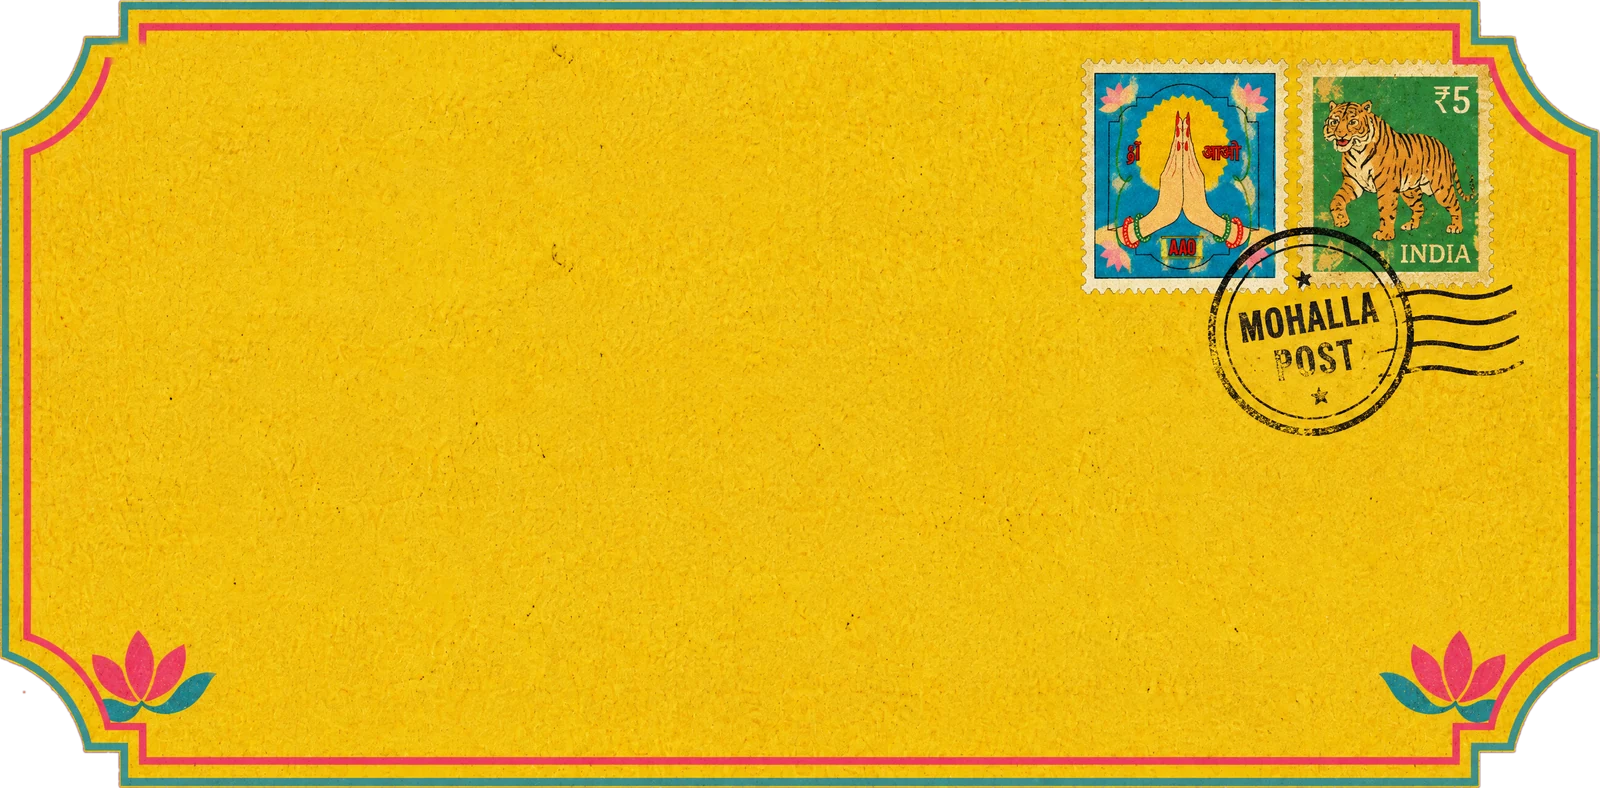
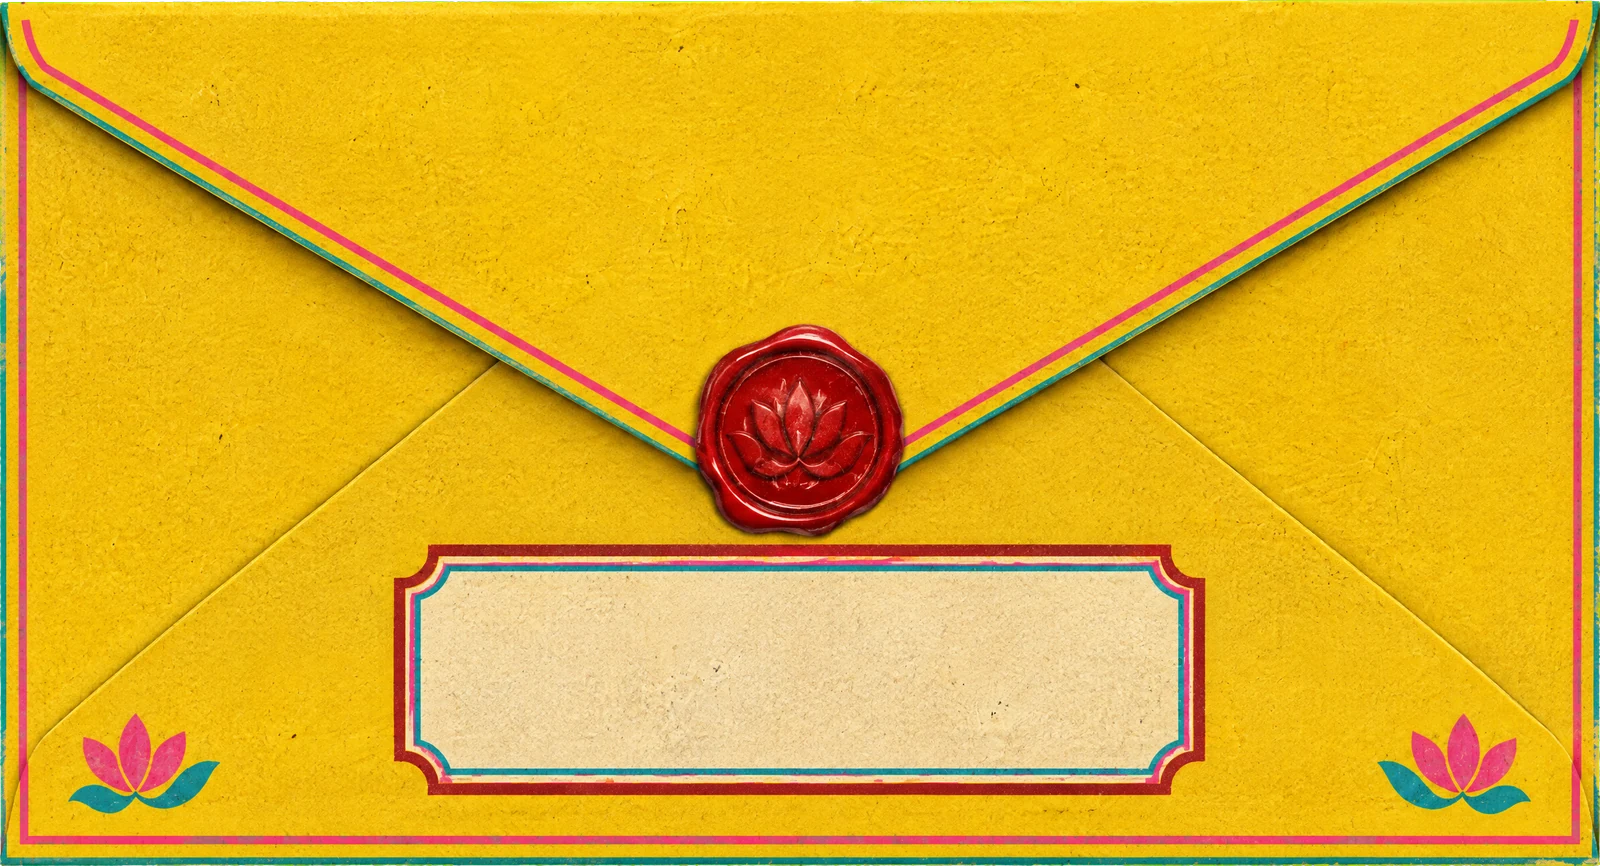
diwali: real envelope back (V flap, lotus wax seal, pasted name label) in the deck style

diff --git a/diwali/app.js b/diwali/app.js
@@ -73,7 +73,7 @@ let vw = 0, vh = 0, dpr = 1, lastEnvW = 0, wide = false;
 const E = {}, EB = {}, EZ = {}, B = {}, M = {}, C2 = {};
 let zoom = 0, RS = 2;                                         // envelope zoom (0 = resting, 1 = lit close-up)
 const tilt = { x: 0, y: 0, px: 0, py: 0 };
-const ENV_AR = 1600 / 788, POSTER_AR = 1000 / 1201, SLEEVE_AR = 1000 / 625, DRAWER = .253;
+const ENV_AR = 1600 / 866, POSTER_AR = 1000 / 1201, SLEEVE_AR = 1000 / 625, DRAWER = .253;
 const ORIGIN = [.05, .9];
 
 function setE() {
@@ -154,31 +154,26 @@ function drawEnvelope() {
   x.setTransform(RS, 0, 0, RS, 0, 0);
   x.clearRect(0, 0, W, H);
   if (IMG.env) x.drawImage(IMG.env, 0, 0, W, H);
-  // deck lockup: nailinit / DIWALI / P A R T Y
-  const lx = u * 8.5;
-  if (IMG.nl) { const h = u * 3.3; x.drawImage(IMG.nl, lx, u * 6.6, h * IMG.nl.width / IMG.nl.height, h); }
-  let dh = 0;
-  if (IMG.diwali) { const w = u * 25; dh = w * IMG.diwali.height / IMG.diwali.width; x.drawImage(IMG.diwali, lx - u * .3, u * 10.6, w, dh); }
-  x.fillStyle = '#1c1410'; x.font = `600 ${u * 2.3}px "Clash Display", "Barlow Condensed"`; x.textBaseline = 'alphabetic'; x.textAlign = 'left';
-  'PARTY'.split('').forEach((ch, i) => x.fillText(ch, lx + u * 4.4 + i * u * 3.4, u * 10.6 + dh + u * 2.9));
-  // address: Palanquin Dark + Bakbak One with the deck's red drop shadow
-  const ax = u * 8.5, ay = u * 27.5;
-  x.fillStyle = '#c4221a'; x.font = `700 ${u * 3.2}px "Palanquin Dark"`;
-  x.fillText('सेवा में,', ax, ay);
+  // deck lockup on the top flap: nailinit / DIWALI / P A R T Y
+  x.textBaseline = 'alphabetic';
+  let ly = H * .085;
+  if (IMG.nl) { const h = u * 3.2, w = h * IMG.nl.width / IMG.nl.height; x.drawImage(IMG.nl, W / 2 - w / 2, ly, w, h); ly += h + u * .9; }
+  if (IMG.diwali) { const w = u * 22, h = w * IMG.diwali.height / IMG.diwali.width; x.drawImage(IMG.diwali, W / 2 - w / 2, ly, w, h); ly += h; }
+  x.fillStyle = '#1c1410'; x.font = `600 ${u * 2.1}px "Clash Display", "Barlow Condensed"`; x.textAlign = 'center';
+  'PARTY'.split('').forEach((ch, i) => x.fillText(ch, W / 2 + (i - 2) * u * 3.1, ly + u * 2.7));
+
+  // the pasted label: सेवा में, + the guest's name in Bakbak with the deck's red drop shadow
+  const L0 = { x: W * .263, y: H * .659, w: W * .473, h: H * .228 };
+  x.textAlign = 'left'; x.fillStyle = '#c4221a'; x.font = `700 ${u * 2.5}px "Palanquin Dark"`;
+  x.fillText('सेवा में,', L0.x + u * 2.8, L0.y + u * 3.7);
   const label = NAME + ' ji';
-  let fs = u * 7.2; x.font = `400 ${fs}px "Bakbak One"`;
-  while (x.measureText(label).width > W * .52 && fs > u * 3.6) { fs -= .5; x.font = `400 ${fs}px "Bakbak One"`; }
-  const ny = ay + fs * 1.05;
-  x.fillStyle = '#c4221a'; x.fillText(label, ax + u * .45, ny + u * .5);
-  x.fillStyle = '#1c1410'; x.fillText(label, ax, ny);
-  const ry = ny + u * 2.4, rw = Math.max(W * .3, x.measureText(label).width);
-  x.strokeStyle = '#c4221a'; x.lineWidth = Math.max(1, u * .26);
-  x.beginPath(); x.moveTo(ax, ry); x.lineTo(ax + rw * .45, ry); x.moveTo(ax + rw * .55, ry); x.lineTo(ax + rw, ry); x.stroke();
-  x.fillStyle = '#2f9790'; x.font = `700 ${u * 2.4}px "Palanquin Dark"`; x.textAlign = 'center';
-  x.fillText('✦', ax + rw / 2, ry + u * .85);
+  let fs = u * 7.4; x.font = `400 ${fs}px "Bakbak One"`;
+  while (x.measureText(label).width > L0.w - u * 5 && fs > u * 3) { fs -= .5; x.font = `400 ${fs}px "Bakbak One"`; }
+  const nx = L0.x + L0.w / 2, ny = L0.y + L0.h - u * 2.1;
+  x.textAlign = 'center';
+  x.fillStyle = '#c4221a'; x.fillText(label, nx + u * .4, ny + u * .45);
+  x.fillStyle = '#1c1410'; x.fillText(label, nx, ny);
   x.textAlign = 'left';
-  x.fillStyle = '#75150f'; x.font = `600 ${u * 2.6}px "Palanquin Dark"`;
-  x.fillText('Mohalla No. 26, Khushiyon Wali Gali', ax, ry + u * 4.8);
 }
 
 /* ───────────── burn shader (WebGL, 2D fallback) ───────────── */
